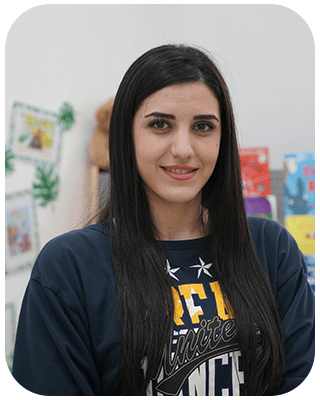
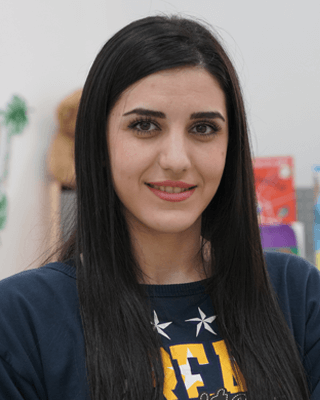
Change AGS Mentors Images

diff --git a/src/sections/About/PrincipalSlider/PrincipalSlider.jsx b/src/sections/About/PrincipalSlider/PrincipalSlider.jsx
@@ -1,15 +1,15 @@
 import React, { useState } from "react";
 import "react-multi-carousel/lib/styles.css";
-import mentor1 from "../../../assets/images/Meetthementors_ Second Batch/Second Batch _ 320x400/Image1.jpg";
-import mentor2 from "../../../assets/images/Meetthementors_ Second Batch/Second Batch _ 320x400/Image2.jpg";
-import mentor3 from "../../../assets/images/Meetthementors_ Second Batch/Second Batch _ 320x400/Image3.jpg";
-import mentor4 from "../../../assets/images/Meetthementors_ Second Batch/Second Batch _ 320x400/Image4.jpg";
-import mentor5 from "../../../assets/images/Meetthementors_ Second Batch/Second Batch _ 320x400/Image5.jpg";
-import mentor6 from "../../../assets/images/Meetthementors_ Second Batch/Second Batch _ 320x400/Image6.jpg";
-import mentor7 from "../../../assets/images/Meetthementors_ Second Batch/Second Batch _ 320x400/Image7.jpg";
-import mentor8 from "../../../assets/images/Meetthementors_ Second Batch/Second Batch _ 320x400/Image8.jpg";
-import mentor9 from "../../../assets/images/Meetthementors_ Second Batch/Second Batch _ 320x400/Image9.jpg";
-import mentor10 from "../../../assets/images/Meetthementors_ Second Batch/Second Batch _ 320x400/Image10.jpg";
+import mentor1 from "../../../assets/images/Meetthementors_ Second Batch/Second Batch _ 320x400/Image1.png";
+import mentor2 from "../../../assets/images/Meetthementors_ Second Batch/Second Batch _ 320x400/Image2.png";
+import mentor3 from "../../../assets/images/Meetthementors_ Second Batch/Second Batch _ 320x400/Image3.png";
+import mentor4 from "../../../assets/images/Meetthementors_ Second Batch/Second Batch _ 320x400/Image4.png";
+import mentor5 from "../../../assets/images/Meetthementors_ Second Batch/Second Batch _ 320x400/Image5.png";
+import mentor6 from "../../../assets/images/Meetthementors_ Second Batch/Second Batch _ 320x400/Image6.png";
+import mentor7 from "../../../assets/images/Meetthementors_ Second Batch/Second Batch _ 320x400/Image7.png";
+import mentor8 from "../../../assets/images/Meetthementors_ Second Batch/Second Batch _ 320x400/Image8.png";
+import mentor9 from "../../../assets/images/Meetthementors_ Second Batch/Second Batch _ 320x400/Image9.png";
+import mentor10 from "../../../assets/images/Meetthementors_ Second Batch/Second Batch _ 320x400/Image10.png";
 import OwlCarousel from "react-owl-carousel";
 import "owl.carousel/dist/assets/owl.carousel.css";
 import "owl.carousel/dist/assets/owl.theme.default.css";

diff --git a/src/sections/Careers/Ourteam/Ourteam.scss b/src/sections/Careers/Ourteam/Ourteam.scss
@@ -17,7 +17,7 @@
     }
     .overview-heading {
       position: absolute;
-      bottom: -1%;
+      bottom: -2%;
       font-size: 20px;
       font-weight: 500;
       color: $white;
@@ -26,9 +26,8 @@
       background: #00000085;
       border-bottom-left-radius: 50px;
       border-bottom-right-radius: 50px;
-      width: 97%;
+      width: 100%;
       height: 20%;
-      left: 1.5%;
       @media #{$lg} {
         font-size: 18px;
       }

diff --git a/src/sections/Home/Mentors/Mentors.scss b/src/sections/Home/Mentors/Mentors.scss
@@ -18,7 +18,7 @@
     }
     .overview-heading {
       position: absolute;
-      bottom: -1%;
+      bottom: -2%;
       font-size: 20px;
       font-weight: 500;
       color: $white;
@@ -27,9 +27,8 @@
       background: #00000085;
       border-bottom-left-radius: 50px;
       border-bottom-right-radius: 50px;
-      width: 97%;
+      width: 100%;
       height: 20%;
-      left: 1.5%;
       @media #{$lg} {
         font-size: 18px;
       }
